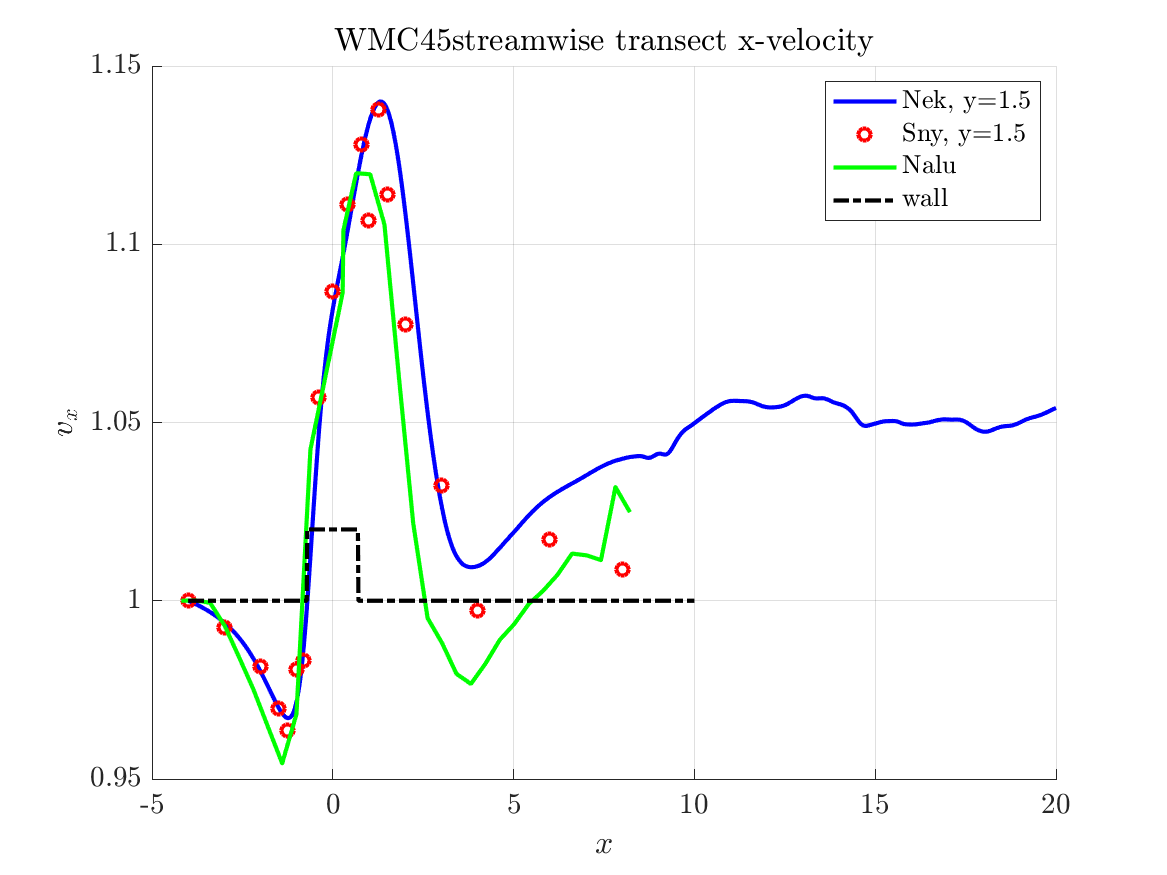
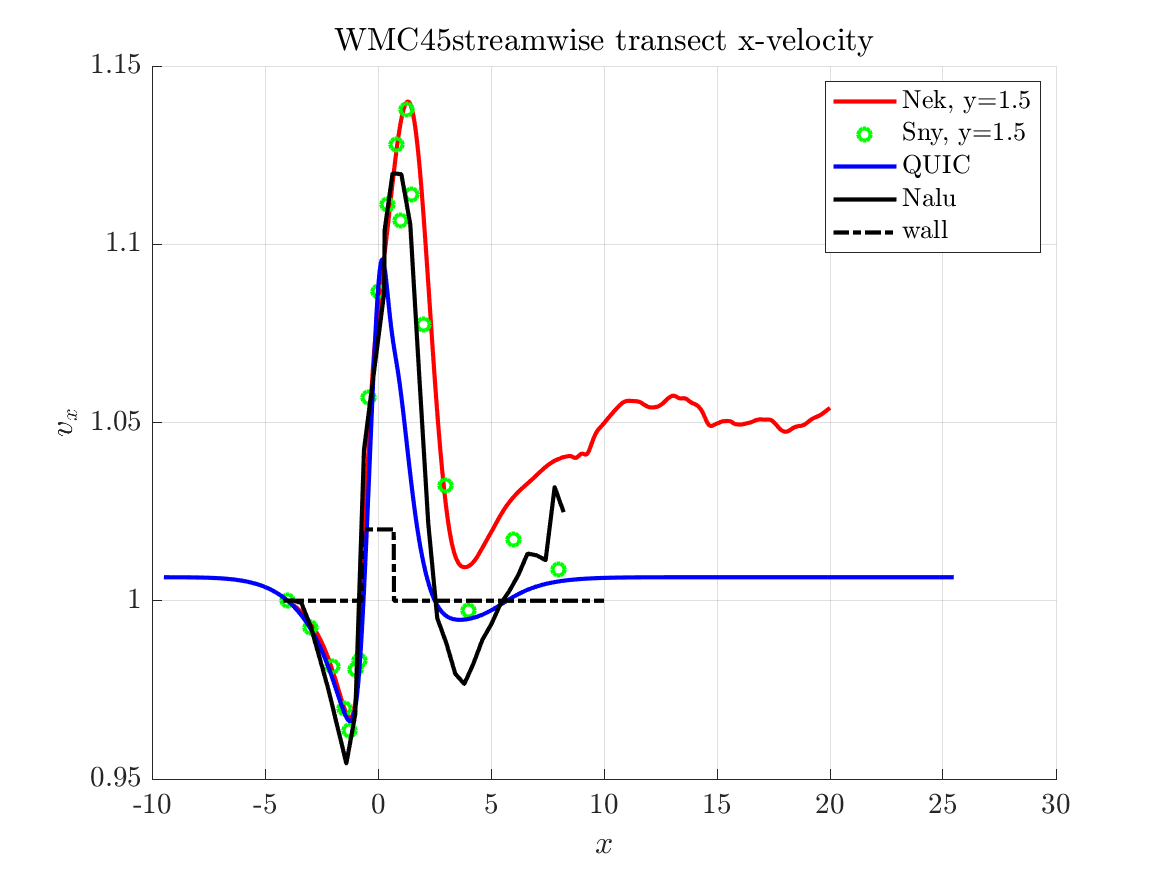
compare nalu, quic, nek, snyder

diff --git a/mtlb/patrick/compare.m b/mtlb/patrick/compare.m
@@ -25,7 +25,7 @@
 
 %=======================================================
 function compare(al)
-%al=45;
+%al=90;
 
 uscl=0.5;
 kscl=2.0;
@@ -51,7 +51,7 @@ tk=dlmread([dir,'var.dat'],'' ,[1 1 n 3]); % < u' * u' >
 xN=C(:,1);
 yN=C(:,2);
 zN=C(:,3);
-[xN,yN,zN] = insidecube(al,xN,yN,zN);
+%[xN,yN,zN] = insidecube(al,xN,yN,zN);
 
 uN=U(:,1);
 vN=U(:,2);
@@ -66,8 +66,7 @@ kN = 0.5 * sum(tk')';
 
 I1=         1:nx1*ny1*nz1 ; I1=reshape(I1,[nx1,ny1,nz1]);
 I2=I1(end)+(1:nx2*ny2*nz2); I2=reshape(I2,[nx2,ny2,nz2]);
-I1ref0=I1(1,0.5*ny1  );
-I1ref1=I1(1,0.5*ny1+1);
+I1ref=I1(1,334);
 I2ref=I2(1);
 
 %=======================================================
@@ -118,7 +117,7 @@ elseif(al==90)
 	vvE1=M(:,6)*ufactor; % w -> v
 	kE1 = 0.75*(uuE1.*uuE1+vvE1.*vvE1);
 end
-[xE1,yE1,zE1] = insidecube(al,xE1,yE1,zE1);
+%[xE1,yE1,zE1] = insidecube(al,xE1,yE1,zE1);
 
 % Reshaping EPA
 if(al==45)
@@ -154,60 +153,100 @@ uN1=M(:,2:5); uN1=uN1/uN1(4,1);
 M=readmatrix(f2);
 xN2=M(:,1);
 uN2=M(:,2); uN2=uN2/uN2(1);
+%=======================================================
+% QUIC
+%=======================================================
+load('./QUICprofs/U_3H_45dg.mat');
+load('./QUICprofs/U_3H_90dg.mat');
+load('./QUICprofs/U_6H_45dg.mat');
+load('./QUICprofs/U_6H_90dg.mat');
+load('./QUICprofs/U_8H_45dg.mat');
+load('./QUICprofs/U_8H_90dg.mat');
+load('./QUICprofs/U_CL_1_5H_45dg.mat');
+load('./QUICprofs/U_CL_1_6H_90dg.mat');
+load('./QUICprofs/U_inflow_45dg.mat');
+load('./QUICprofs/U_inflow_90dg.mat');
+load('./QUICprofs/x_QUIC.mat');
+load('./QUICprofs/z_QUIC.mat');
+
+xQ=x_QUIC;
+yQ=z_QUIC;
+if(al==45)
+	uQ1=[U_inflow_45dg;U_3H_45dg;U_6H_45dg;U_8H_45dg];
+	uQ2=U_CL_1_5H_45dg;
+elseif(al==90)
+	uQ1=[U_inflow_90dg;U_3H_90dg;U_6H_90dg;U_8H_90dg];
+	uQ2=U_CL_1_6H_90dg;
+end
+xxQ=[-4,3,6,8];
+
+uQ1=uQ1 / (0.5*(uQ1(1,21)+uQ1(1,21)));
+uQ2=uQ2 / (0.5*(uQ2(110) +uQ2(111) ));
 
 %=======================================================
-% plots
-%=======================================================
 % vertical profiles
-uE1=uE1 / uE1(1,end-2);
-uNref = 0.5*(uN(I1ref0) + uN(I1ref1));
-uN =uN  / uNref;
-figure;fig=gcf;ax=gca; hold on;grid on;
-ax.XScale='linear';
-ax.YScale='linear';
-xlabel(['$$v_x$$']);
-ylabel('$$y$$');
-xlim([0,1.2]);
-ylim([0,2.0]);
+%=======================================================
+% normalization
+if(al==45)     uE1=uE1 / uE1(1,end-5);
+elseif(al==90) uE1=uE1 / uE1(1,end-6);
+end
+uN =uN  / uN(I1ref);
+
+% figure
 nS=size(xE1,1);
 SS=[1,nS-3,nS-1,nS];
-cc='rgbk';
+
 for i=1:nx1
-	II =I1(i,:);
-	II0=II(1);
-	p=plot(uN(II),yN(II),['-',cc(i)],'linewidth',2);
+	figure;fig=gcf;ax=gca; hold on;grid on;
+	ax.XScale='linear';  ax.YScale='linear';
+	xlabel(['$$v_x$$']); ylabel('$$y$$');
+	xlim([0,1.2]);       ylim([0,2.0]);
+	cc='rgbk';
+
+	II =I1(i,:); II0=II(1);
+	p=plot(uN(II),yN(II),['-',cc(1)],'linewidth',2);
 	p.DisplayName=['Nek x=',num2str(xN(II0))];
 	
 	nx=SS(i);
-	p=plot(uE1(nx,:),yE1(nx,:),['-o',cc(i)],'linewidth',2);
+	p=plot(uE1(nx,:),yE1(nx,:),['-o',cc(2)],'linewidth',2);
 	p.DisplayName=['Sny x=',num2str(xN(II0))];
 
-	p=plot(uN1(:,i),yN1,['-.',cc(i)],'linewidth',2);
-	p.DisplayName=['Nalu x=',num2str(xN1(i))];
-end
-title(['WMC',num2str(al),' x-velocity']);
-legend('show','location','northwest');
-%
-figname=['WMC',num2str(al),'vertical profile x-velocity'];
-saveas(fig,figname,'png');
+	p=plot(uQ1(i,:),yQ,['-',cc(3)],'linewidth',2);
+	p.DisplayName=['QUIC x=',num2str(xxQ(i))];
 
+	p=plot(uN1(:,i),yN1,['-',cc(4)],'linewidth',2);
+	p.DisplayName=['Nalu x=',num2str(xN1(i))];
+
+	title(['WMC',num2str(al),' x-velocity at x=',num2str(xxQ(i))]);
+	legend('show','location','northwest');
+	figname=['WMC',num2str(al),'x',num2str(i)];
+	saveas(fig,figname,'png');
+end
+
+%=======================================================
 % streamwise transect
+%=======================================================
+% normalization
 uE1=uE1 / uE1(1,end-2);
 uN =uN  / uN (I2ref);
 
+% figure
 figure;fig=gcf;ax=gca; hold on;grid on;
 ax.XScale='linear';
 ax.YScale='linear';
 xlabel(['$$x$$']);
 ylabel('$$v_x$$');
 
-p=plot(xN(I2),uN(I2),'b-','linewidth',2.0);
+p=plot(xN(I2),uN(I2),['-',cc(1)],'linewidth',2.0);
 p.DisplayName=['Nek, y=',num2str(yN(I2ref))];
 
-p=plot(xE1(:,end-2),uE1(:,end-2),'ro','linewidth',2);
+p=plot(xE1(:,end-2),uE1(:,end-2),['o',cc(2)],'linewidth',2);
 p.DisplayName=['Sny, y=',num2str(yE1(1,end-2))];
 
-p=plot(xN2,uN2,'g-','linewidth',2);
+p=plot(xQ,uQ2,['-',cc(3)],'linewidth',2);
+p.DisplayName=['QUIC'];
+
+p=plot(xN2,uN2,['-',cc(4)],'linewidth',2);
 p.DisplayName=['Nalu'];
 
 p=plot(xw,yw*0.02+1,'k-.','linewidth',2);
